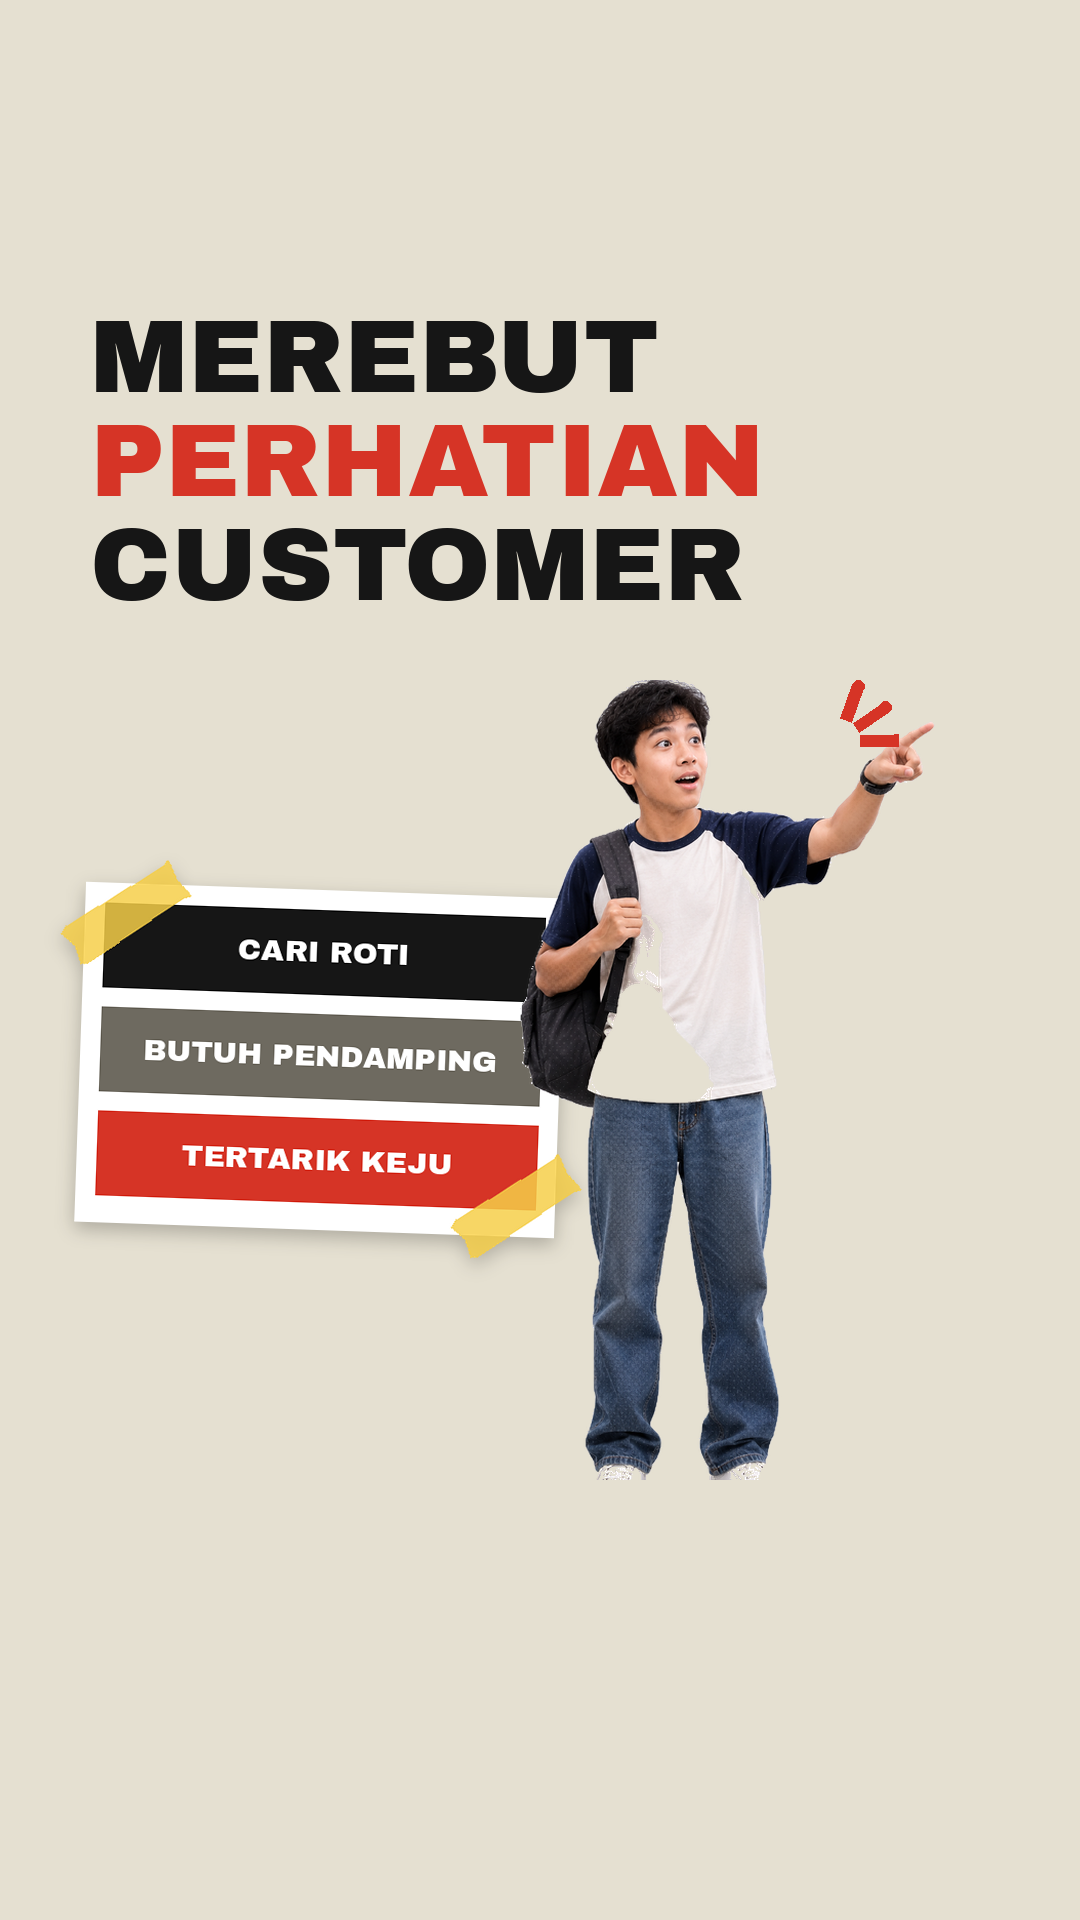
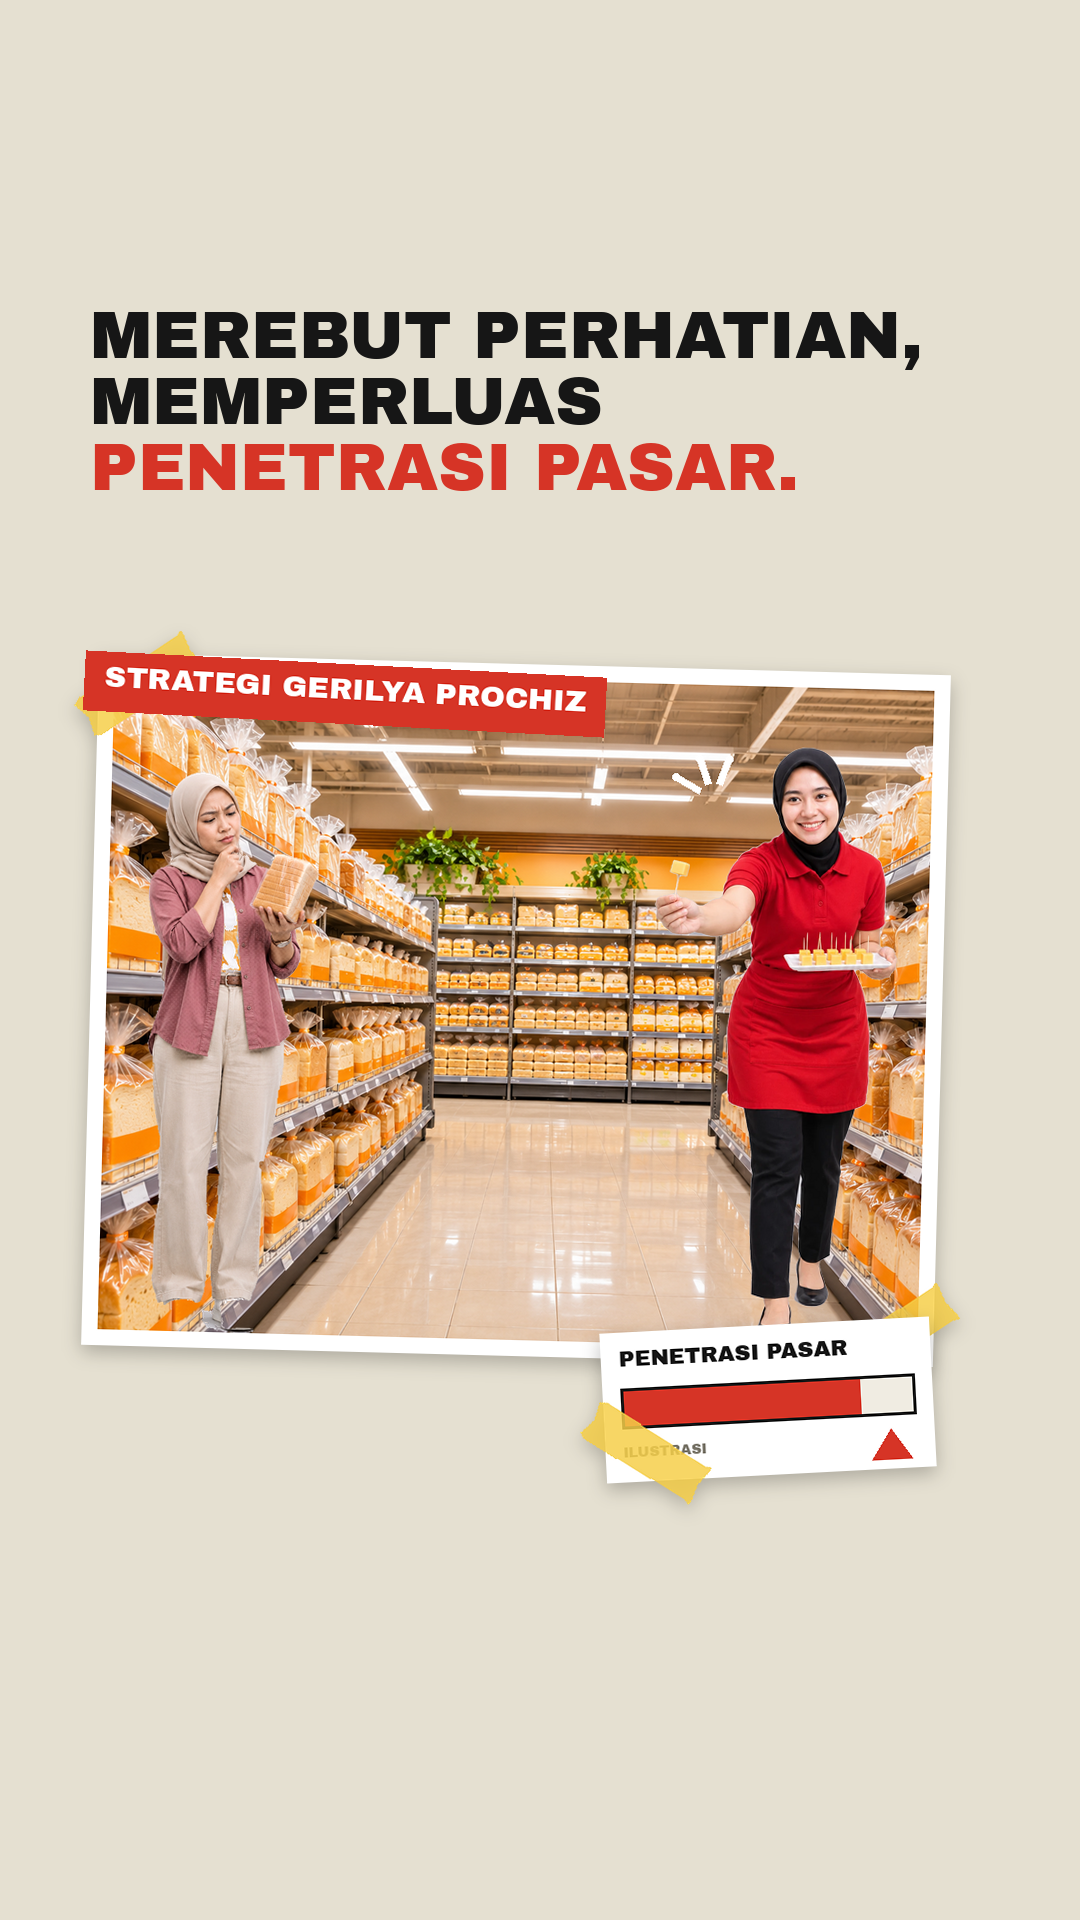
v9: merge scenes 14+15 into one guerrilla-strategy scene (SPG intercepts bread shopper)
Claude-Session: https://claude.ai/code/session_01HJTnHN98UwcZe7n2i8WeX4

diff --git a/projects/prochiz/keyvisual/src/board7.py b/projects/prochiz/keyvisual/src/board7.py
@@ -208,24 +208,21 @@ def t13(L):          # summary: logo, big two-line title with underline + burst,
     sp = agus(3, 700); AC(L, sp, (SR - sp.width - 4, 1480 - sp.height))
     AC(L, two_tone(), (SL + 10, 1250))
 
-def t14(L):          # taped list card + customer pointing with burst
-    T(L, [[("MEREBUT", INKK)], [("PERHATIAN", RED)], [("CUSTOMER", INKK)]], 300, 104)
-    c = Image.new("RGBA", (480, 340), WHITE + (255,)); d = ImageDraw.Draw(c)
-    for i, (tx, col) in enumerate((("CARI ROTI", INKK), ("BUTUH PENDAMPING", (110, 106, 96)), ("TERTARIK KEJU", RED))):
-        d.rectangle((20, 20 + i * 104, 460, 104 + i * 104), fill=col + (255,)); d.text((240, 62 + i * 104), tx, font=af(30), fill=WHITE + (255,), anchor="mm")
-    P(L, photo(c, 480, border=0, tapes=("tl", "br")), 320, 1060, rot=-2)
-    f = CUST4_X; f = f.resize((int(f.width * 800 / f.height), 800), Image.LANCZOS); AC(L, f, (SR - 440, 1480 - 800)); AC(L, burst(60), (SR - 120, 680))
+def t14(L):          # scenes 14 + 15 merged: the guerrilla move in one picture (SPG intercepts a bread shopper with a cheese sample)
+    T(L, [[("MEREBUT", INKK), ("PERHATIAN,", INKK)], [("MEMPERLUAS", INKK)], [("PENETRASI", RED), ("PASAR.", RED)]], 300, 92)
+    pw, ph = 820, 660
+    base = cover(AISLE, pw, ph, 0.45, 0.5).convert("RGBA")
+    cu = CUST2_X.resize((int(CUST2_X.width * 560 / CUST2_X.height), 560), Image.LANCZOS); base.alpha_composite(cu, (40, ph - 560))
+    so = spg("offer", 600); base.alpha_composite(so, (pw - so.width - 30, ph - 600))
+    b = burst(46, col=WHITE, angles=(-150, -110, -70), width=7); base.alpha_composite(b, (pw - so.width - 30 + int(so.width * 0.06), ph - 600 + 10))
+    P(L, photo(base, pw, tapes=("tl", "br")), CX, 1010, rot=-1.5)
+    AC(L, tag("STRATEGI GERILYA PROCHIZ", 30, WHITE, RED, -3), (SL + 10, 650))
+    c = Image.new("RGBA", (330, 150), WHITE + (255,)); d = ImageDraw.Draw(c); d.text((18, 14), "PENETRASI PASAR", font=af(22), fill=INKK + (255,))
+    d.rectangle((18, 56, 312, 96), outline=INKK + (255,), width=3, fill=(240, 236, 226, 255)); d.rectangle((21, 59, 21 + int(288 * 0.82), 93), fill=RED + (255,))
+    d.polygon([(286, 110), (306, 140), (266, 140)], fill=RED + (255,)); d.text((18, 112), "ILUSTRASI", font=af(14), fill=(120, 116, 104, 255))
+    P(L, photo(c, 330, border=0, tapes=("bl",)), 768, 1400, rot=3)
 
-def t15(L):          # closing: co-founder waving, taped result card with logo, two-tone tag
-    T(L, [[("MEMPERLUAS", INKK)], [("PENETRASI", RED)], [("PASAR.", INKK)]], 300, 112)
-    sp = agus(1, 980, 0.72); AC(L, sp, (74, 1480 - sp.height))
-    c = Image.new("RGBA", (400, 360), WHITE + (255,)); c.alpha_composite(wfit(LOGO_P, 240), (80, 20)); d = ImageDraw.Draw(c)
-    d.text((24, 190), "PENETRASI PASAR", font=af(26), fill=INKK + (255,)); d.rectangle((24, 236, 376, 290), outline=INKK + (255,), width=4, fill=(240, 236, 226, 255)); d.rectangle((28, 240, 28 + int(344 * 0.82), 286), fill=RED + (255,))
-    d.text((376, 330), "ILUSTRASI", font=af(16), fill=(120, 116, 104, 255), anchor="rm")
-    P(L, photo(c, 400, border=0, tapes=("tr",)), 740, 1020, rot=3)
-    AC(L, two_tone(), (SL + 10, 1318))
-
-SC = [(1, t01), (2, t02), (3, t03), (4, t04), (5, t05), (6, t06), (7, t07), (8, t08), (9, t09), (10, t10), (11, t11), (12, t12), (13, t13), (14, t14), (15, t15)]
+SC = [(1, t01), (2, t02), (3, t03), (4, t04), (5, t05), (6, t06), (7, t07), (8, t08), (9, t09), (10, t10), (11, t11), (12, t12), (13, t13), (14, t14)]
 SCENE_BG = {5: "red"}
 
 if __name__ == "__main__":
@@ -240,7 +237,8 @@ if __name__ == "__main__":
     PW, PH = 432, 768; gap = 20; cols = 5
     sheet = Image.new("RGB", (cols * (PW + gap) + gap, 3 * (PH + 96) + gap), (28, 28, 32)); d = ImageDraw.Draw(sheet)
     hf = ImageFont.truetype("/usr/share/fonts/opentype/inter/Inter-Bold.otf", 22); nf = ImageFont.truetype("/usr/share/fonts/opentype/inter/Inter-Medium.otf", 17)
-    for i, (tm, vo, _) in enumerate(BB.SCN):
+    SCN_ = list(BB.SCN[:13]) + [(BB.SCN[13][0], BB.SCN[13][1] + " " + BB.SCN[14][1], None)]
+    for i, (tm, vo, _) in enumerate(SCN_):
         n = i + 1; im = Image.open(os.path.join(out, f"scene_{n:02d}.png")).resize((PW, PH), Image.LANCZOS)
         x = gap + (i % cols) * (PW + gap); y = gap + (i // cols) * (PH + 96)
         d.text((x, y + 2), f"{n:02d}", font=hf, fill=(255, 210, 90)); d.text((x + 46, y + 2), f"{tm.replace(':', '.')}s", font=hf, fill=(200, 200, 200)); sheet.paste(im, (x, y + 34))

diff --git a/projects/prochiz/keyvisual/src/anim9.py b/projects/prochiz/keyvisual/src/anim9.py
@@ -12,8 +12,8 @@ import proto_ref_vibe as PV
 
 FPS = 30; TOTAL = 41.72
 _T = [(0.00, 1.96), (1.96, 4.24), (4.24, 7.15), (7.15, 9.50), (9.50, 12.30), (12.30, 15.10), (15.10, 17.40), (17.40, 20.10),
-      (20.10, 23.18), (23.18, 26.80), (26.80, 31.78), (31.78, 35.72), (35.72, 38.33), (38.33, 39.95), (39.95, 41.72)]
-VO = [v for _, v, _ in B.SCN]
+      (20.10, 23.18), (23.18, 26.80), (26.80, 31.78), (31.78, 35.72), (35.72, 38.33), (38.33, 41.72)]     # scenes 14+15 merged
+VO = [v for _, v, _ in B.SCN][:13] + [B.SCN[13][1] + " " + B.SCN[14][1]]
 
 # ------------------------------------------------------------------ element recorder
 REC = {"prev": None, "els": [], "on": False}
@@ -126,7 +126,7 @@ CAMS = [(1.0, 1.03, 0), (1.03, 1.0, 0), (1.0, 1.025, -6), (1.025, 1.0, 0), (1.0,
 
 # transition of each cut (into scene j+2): (type, arg)
 TR = [("iris", (540, 1110)), ("push", "left"), ("zoom", (400, 1020)), ("iris", (540, 1060)), ("push", "down"), ("shrink", None), ("push", "left"),
-      ("zoom", (480, 900)), ("bar", None), ("push", "up"), ("iris", (540, 1055)), ("bar", None), ("push", "left"), ("shrink", None)]
+      ("zoom", (480, 900)), ("bar", None), ("push", "up"), ("iris", (540, 1055)), ("bar", None), ("shrink", None)]
 HW = 0.26                                        # half-width of the seamless push window around each cut (s)
 def scene_frame(k, tl):
     t0, t1 = _T[k]; dur = t1 - t0
